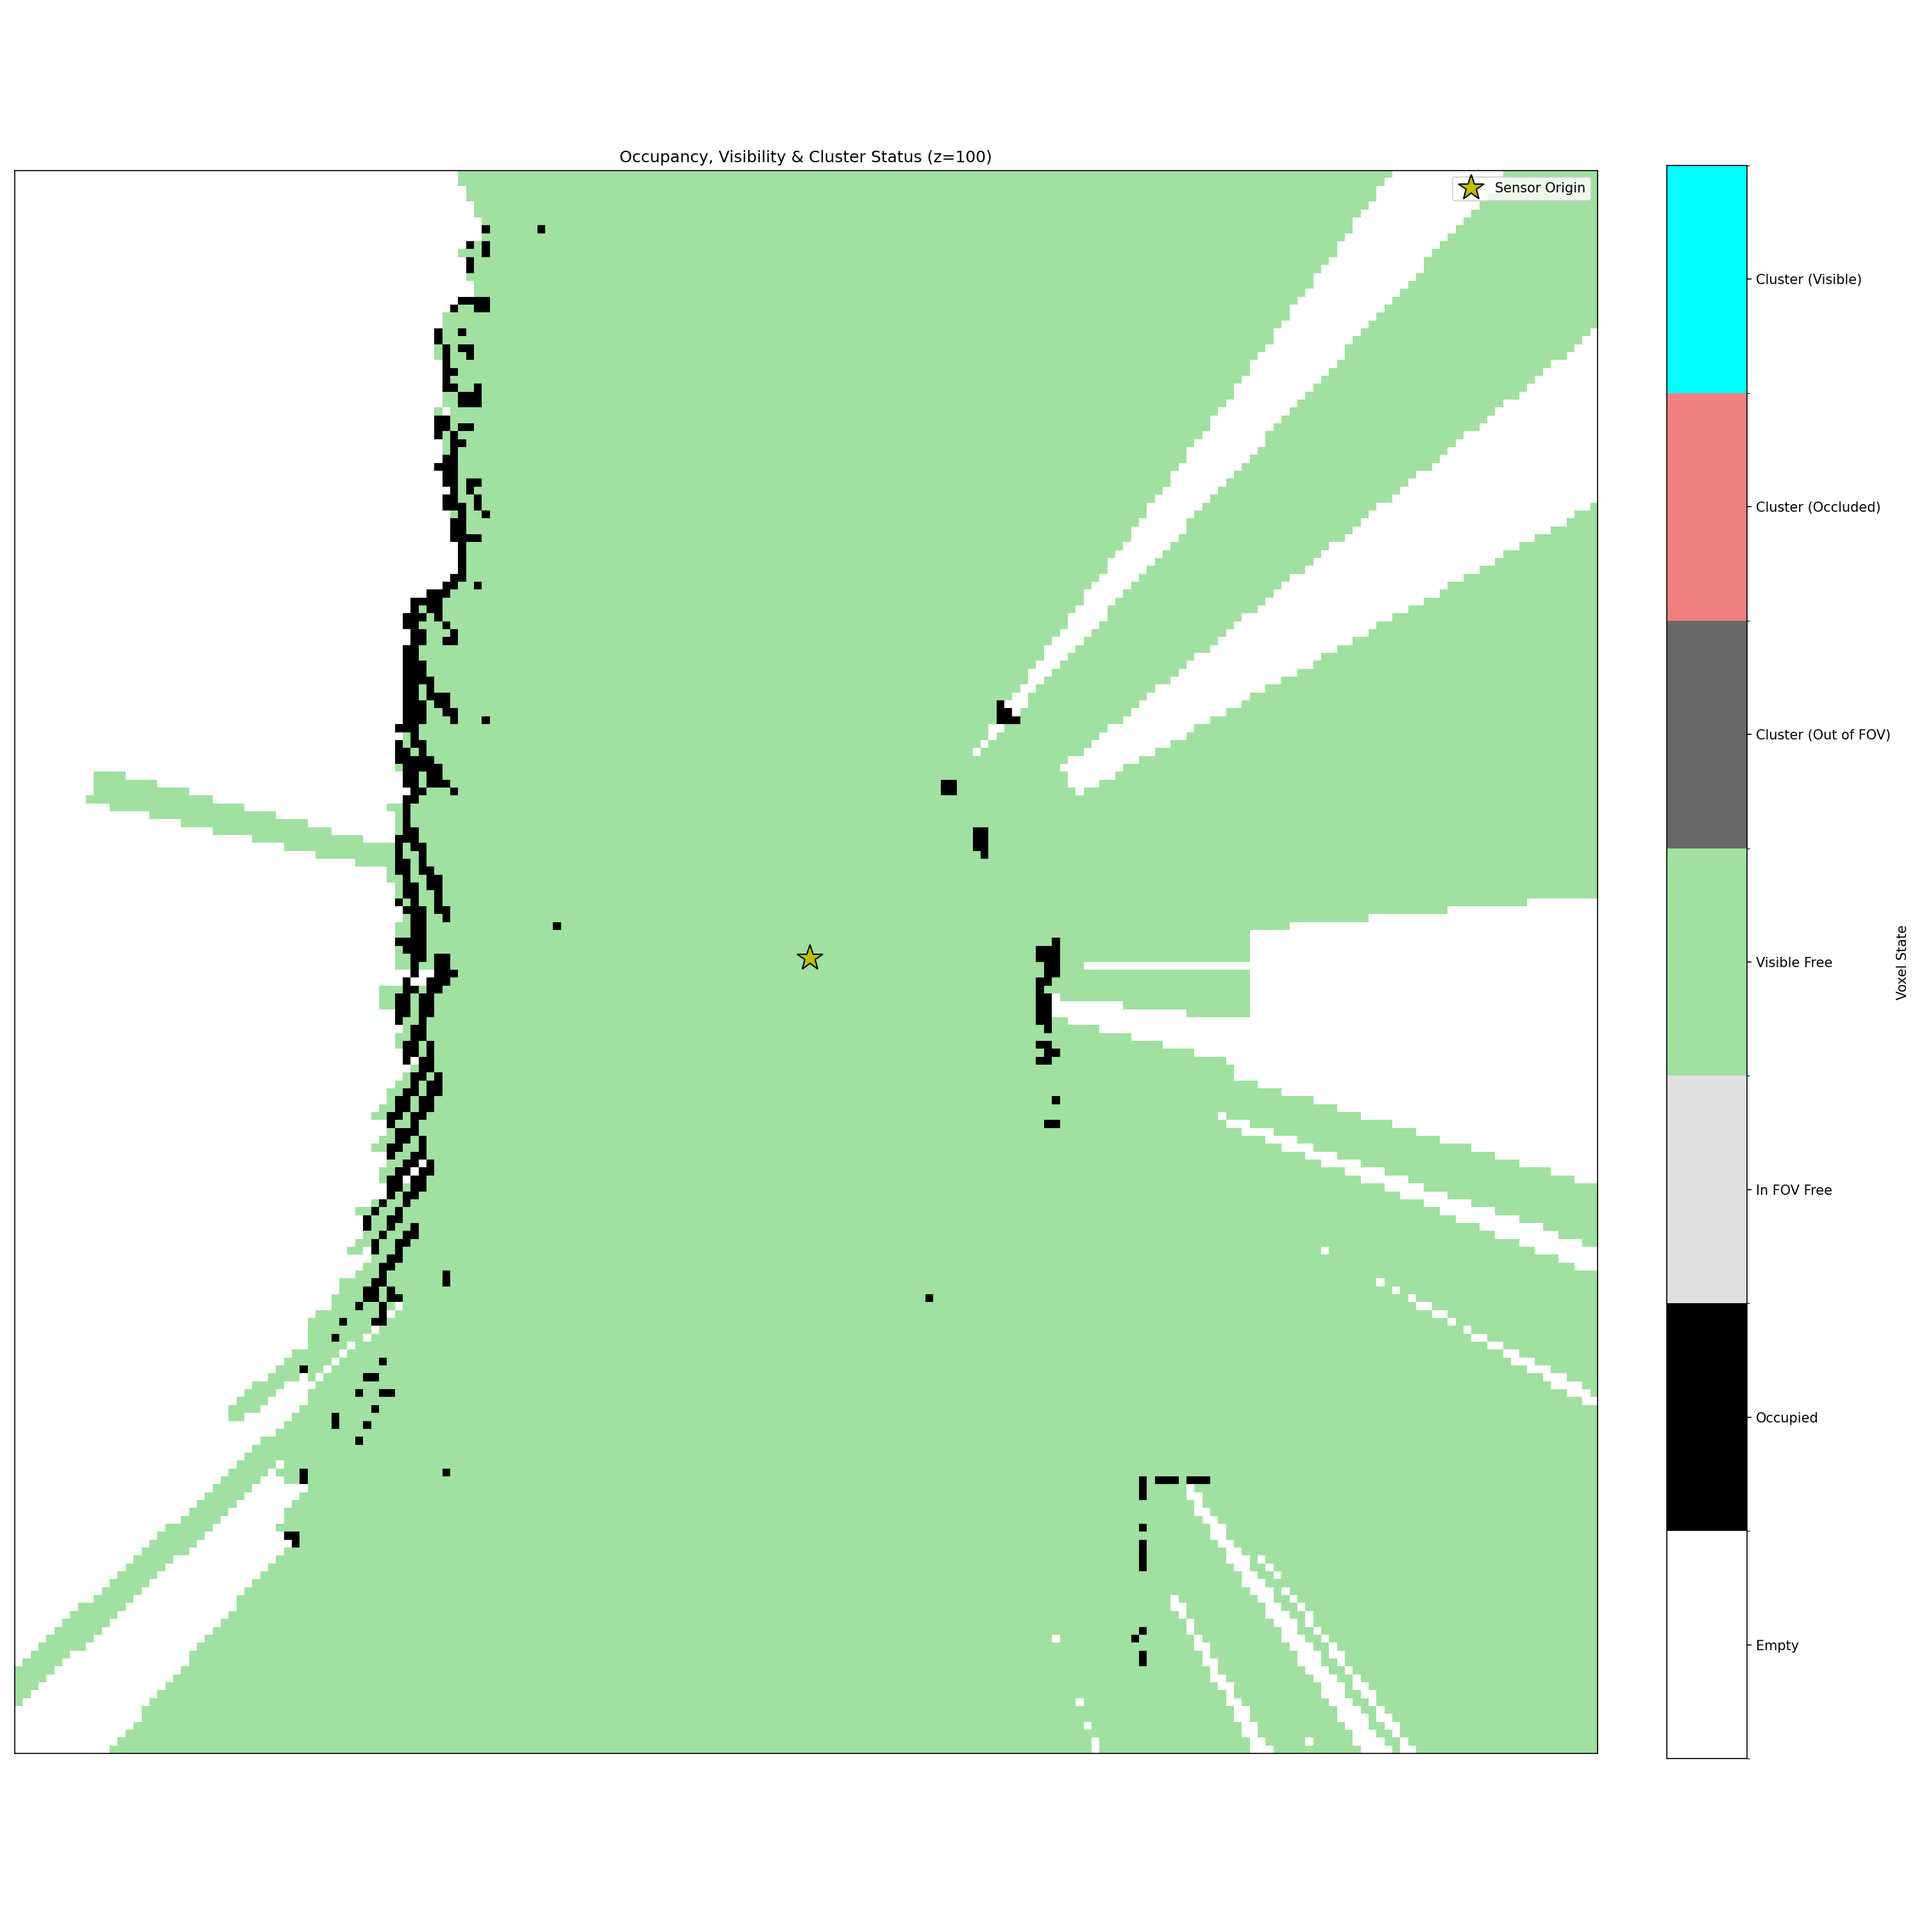
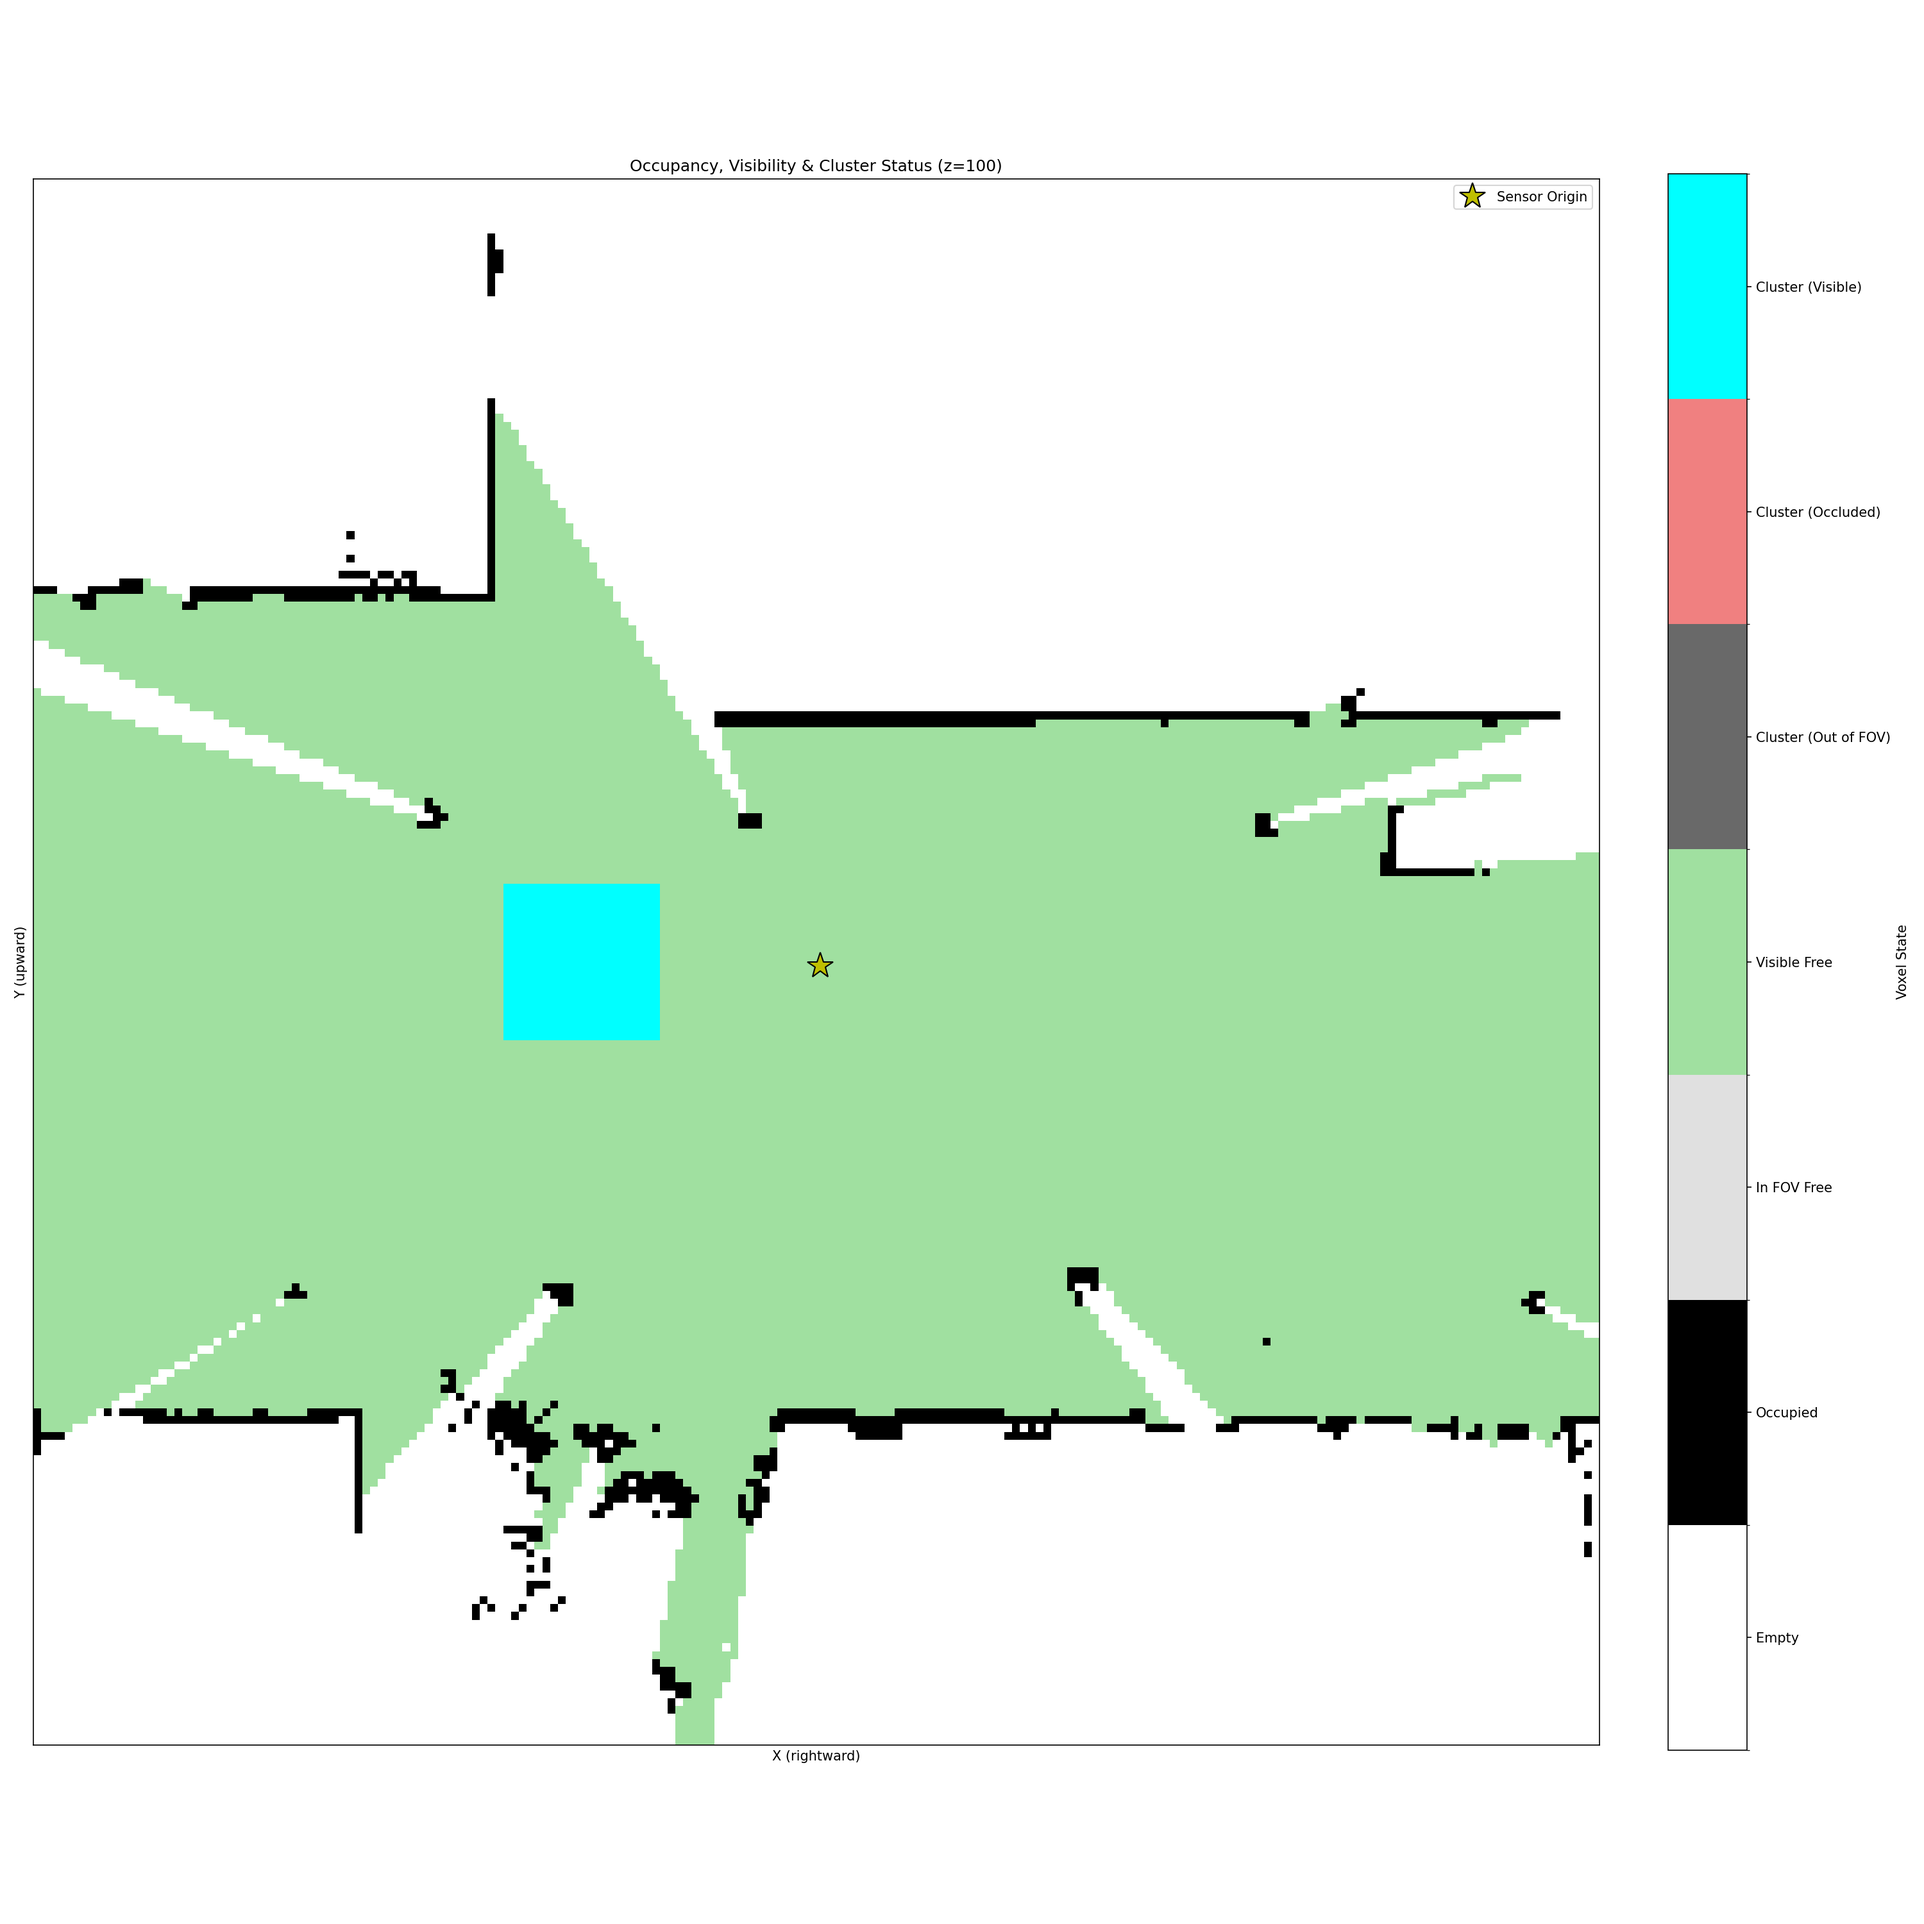
sensor in center

diff --git a/main.py b/main.py
@@ -211,7 +211,7 @@ def dilate_visibility_kernel(
 ) -> None:
     W, D, H = in_vis.shape
     vx, vy, vz = cuda.grid(3)
-    if vx >= W or vy >= D or vy >= H:
+    if vx >= W or vy >= D or vz >= H:
         return
     if in_vis[vx, vy, vz] == 0:
         return
@@ -276,6 +276,7 @@ def get_visibility_grid_batch(occ_sensor_list, dirs, max_range=100.0,
 
     for i, (occ, sensor) in enumerate(occ_sensor_list):
         stream = streams[i % len(streams)]
+        # TODO: not parallel, we would need to pass stream to all numba functions
         with stream.auto_synchronize():
             result = get_visibility_grid(occ, sensor, dirs, max_range, 
                                        cell_size, beam_config)
@@ -293,17 +294,15 @@ def pos_to_cell_idx(d: float, h: float, w: float, cell_size: float) -> tuple[int
 def make_scene_from_pcd(
         pcd_path: Path,
         grid_shape_vox: tuple[int, int, int],
+        center_cell: NDArray[np.float32],
         cell_size: float,
-        grid_origin_m: NDArray[np.float32],
 ) -> NDArray[np.uint8]:
     pc = pypcd4.PointCloud.from_path(pcd_path)
     occ = np.zeros(grid_shape_vox, dtype=np.uint8)
     points_xyz = pc.numpy()[:, :3]
-    points_xyz[:, 2] += 2  # input pcd was shifted down 2 meters. TODO: later no need
     print(f"Loaded {points_xyz.shape[0]} points.")
 
-    points_relative_to_origin_m = points_xyz - grid_origin_m
-    indices_xyz = np.floor(points_relative_to_origin_m / cell_size).astype(int)
+    indices_xyz = np.floor(points_xyz / cell_size).astype(int) + center_cell
 
     W, D, H = grid_shape_vox
     valid_mask = (
@@ -359,7 +358,7 @@ def sample_fov_dirs(
 
 def plot_3d_scene_web(
     occ: NDArray[np.uint8],
-    sensor_zyx: Position,
+    sensor: Position,
     dirs: NDArray[np.float32],
     max_range: float,
     num_rays_to_plot: int = 50,
@@ -369,14 +368,13 @@ def plot_3d_scene_web(
     # The simulation uses (z, y, x) numpy indexing.
     # Plotly uses a standard Cartesian (x, y, z) coordinate system.
     # We must consistently swap the axes when creating plotable objects.
+    sensor = np.array(sensor)
 
     plot_data = []
 
     # 1. Trace for the occupied voxels (PCD)
-    occ_indices_zyx = np.argwhere(occ == 1)
-    if occ_indices_zyx.size > 0:
-        # Swap axes from (z, y, x) to (x, y, z) for plotting
-        occ_indices_xyz = occ_indices_zyx[:, ::-1]
+    occ_indices_xyz = np.argwhere(occ == 1)
+    if occ_indices_xyz.size > 0:
         pcd_trace = go.Scatter3d(
             x=occ_indices_xyz[:, 0], y=occ_indices_xyz[:, 1], z=occ_indices_xyz[:, 2],
             mode='markers',
@@ -387,9 +385,8 @@ def plot_3d_scene_web(
 
     # 2. Trace for the sensor position
     # Swap axes from (z, y, x) to (x, y, z) for plotting
-    sensor_xyz = np.array([sensor_zyx[2], sensor_zyx[1], sensor_zyx[0]])
     sensor_trace = go.Scatter3d(
-        x=[sensor_xyz[0]], y=[sensor_xyz[1]], z=[sensor_xyz[2]],
+        x=[sensor[0]], y=[sensor[1]], z=[sensor[2]],
         mode='markers',
         marker=dict(size=8, color='yellow', symbol='diamond', line=dict(color='black', width=2)),
         name='Sensor Position'
@@ -407,8 +404,8 @@ def plot_3d_scene_web(
     # and separate the line segments with `None` values.
     ray_x, ray_y, ray_z = [], [], []
     for i in range(num_rays_to_plot):
-        start_point = sensor_xyz
-        end_point = sensor_xyz + sampled_dirs_xyz[i] * max_range
+        start_point = sensor
+        end_point = sensor + sampled_dirs_xyz[i] * max_range
         
         ray_x.extend([start_point[0], end_point[0], None])
         ray_y.extend([start_point[1], end_point[1], None])
@@ -446,13 +443,19 @@ def plot_slice(
         vis: NDArray[np.int32],
         cluster: NDArray[np.uint8],
         z_idx: int | float,
-        sensor_zyx: NDArray[np.float32],
+        sensor_xyz: NDArray[np.float32],
         out_path: str = "example_result.png",
 ) -> None:
     """Plots a 2D slice of the combined occupancy, visibility, and cluster grids."""
     occ_slice = occ[:, :, int(z_idx)]
     vis_slice = vis[:, :, int(z_idx)]
     cluster_slice = cluster[:, :, int(z_idx)]
+    
+    # Transform slices for correct orientation: +X right, +Y up
+    # Transpose to swap X and Y, then flip vertically to make +Y point up
+    occ_slice = np.flipud(occ_slice.T)
+    vis_slice = np.flipud(vis_slice.T)
+    cluster_slice = np.flipud(cluster_slice.T)
 
     # 0: Empty/Unseen (white)
     # 1: Occupied (black)
@@ -486,10 +489,16 @@ def plot_slice(
     fig, ax = plt.subplots(figsize=(20, 20))
     img = ax.imshow(merged_grid, cmap=cmap, norm=norm, origin="lower")
 
-    ax.plot(sensor_zyx[0], sensor_zyx[1], 'y*', markersize=20, markeredgecolor='black', label='Sensor Origin')
+    # Adjust sensor coordinates for new orientation
+    # After transpose and flip: Y becomes horizontal axis, X becomes vertical (flipped)
+    sensor_x_plot = sensor_xyz[1]  # Y coordinate becomes horizontal position
+    sensor_y_plot = merged_grid.shape[0] - 1 - sensor_xyz[0]  # X coordinate becomes vertical (flipped)
+    ax.plot(sensor_x_plot, sensor_y_plot, 'y*', markersize=20, markeredgecolor='black', label='Sensor Origin')
     ax.legend()
     
     ax.set_title(f"Occupancy, Visibility & Cluster Status (z={int(z_idx)})")
+    ax.set_xlabel('X (rightward)')
+    ax.set_ylabel('Y (upward)')
     
     cbar = fig.colorbar(img, ax=ax, fraction=0.046, pad=0.04, ticks=np.arange(7))
     cbar.ax.set_yticklabels(['Empty', 'Occupied', 'In FOV Free', 'Visible Free', 'Cluster (Out of FOV)', 'Cluster (Occluded)', 'Cluster (Visible)'])
@@ -588,12 +597,8 @@ if __name__ == "__main__":
         help="Grid dimensions in meters as 'Width,Depth,Height' (X,Y,Z)."
     )
     parser.add_argument(
-        "--sensor_pos_m", type=str, default="20,20,20",
+        "--sensor_pos_m", type=str, default="0,0,0",
         help="Sensor position in world coordinates (X,Y,Z) in meters."
-    )
-    parser.add_argument(
-        "--grid_origin_m", type=str, default="-20,-20,-20",
-        help="World coordinate (x,y,z) in meters that maps to grid voxel (0,0,0). Used only with --pcd_file."
     )
     parser.add_argument(
         "--cell_size", type=float, default=0.2,
@@ -610,16 +615,17 @@ if __name__ == "__main__":
     grid_dims_m = tuple(map(float, args.grid_dims_m.split(',')))
     grid_shape_vox = pos_to_cell_idx(grid_dims_m[0], grid_dims_m[1], grid_dims_m[2], args.cell_size)
 
-    sensor = np.array(list(map(float, args.sensor_pos_m.split(',')))) / args.cell_size
+    center_cell = np.array(grid_shape_vox) // 2
+    sensor = (np.array(list(map(float, args.sensor_pos_m.split(',')))) / args.cell_size).astype(int)
+    sensor += center_cell
+    print(f'{sensor=}')
 
-    grid_origin_m = np.array(list(map(float, args.grid_origin_m.split(','))))
-    # we expect that points are in global or vehicle coord system
-    # probably world and we use grid_origin for centering
+    # currently we expect sensor at 0,0
     occ = make_scene_from_pcd(
         pcd_path=args.pcd_file,
         grid_shape_vox=grid_shape_vox,
+        center_cell=center_cell,
         cell_size=args.cell_size,
-        grid_origin_m=grid_origin_m,
     )
 
     start_ray_time = time.time()
@@ -643,12 +649,24 @@ if __name__ == "__main__":
     )
     
     cluster = np.zeros_like(occ, dtype=np.uint8)
+    x_center, y_center, z_center = 70, 100, 100
+    cluster_size = 20
+    half_size = cluster_size // 2
+    
+    x0 = max(0, x_center - half_size)
+    x1 = min(cluster.shape[0], x_center + half_size)
+    y0 = max(0, y_center - half_size)
+    y1 = min(cluster.shape[1], y_center + half_size)
+    z0 = max(0, z_center)
+    z1 = min(cluster.shape[2], z_center + 1)
+    
+    cluster[x0:x1, y0:y1, z0:z1] = 1
     # if not args.pcd_file:
     #     # This cluster definition is tuned for the default procedural scene
     #     z0, z1 = int(10 / args.cell_size), int(36 / args.cell_size)
     #     y0, y1 = int(10 / args.cell_size), int(30 / args.cell_size)
     #     x0, x1 = int(10 / args.cell_size), int(56 / args.cell_size)
-    #     cluster[z0:z1, y0:y1, x0:x1] = 1
+    #     cluster[x0:x1, y0:y1, z0:z1] = 1
 
     warmup_result = get_visibility_grid(occ, sensor, dirs[:1], beam_config=beam_config)
 
@@ -672,10 +690,9 @@ if __name__ == "__main__":
 
     start_plot_time = time.time()
     print("- Plotting slices (view slice*.png for results)...")
-    for z_idx in range(100, 101):
-    # for z_idx in range(96, 108):
-        if 0 <= z_idx < occ.shape[0]:
-            plot_slice(occ, vis_grid, cluster, z_idx=z_idx, sensor_zyx=sensor, out_path=f"slice_{z_idx}.png")
+    for z_idx in [95, 100]:
+        if 0 <= z_idx < occ.shape[2]:
+            plot_slice(occ, vis_grid, cluster, z_idx=z_idx, sensor_xyz=sensor, out_path=f"slice_{z_idx}.png")
     plot_time = time.time() - start_plot_time
     print(f"- Plotting Time:           {plot_time:.4f}s")
 
@@ -684,7 +701,7 @@ if __name__ == "__main__":
     if args.plot_3d_web:
         plot_3d_scene_web(
             occ=occ,
-            sensor_zyx=sensor,
+            sensor=sensor,
             dirs=dirs,
             max_range=40.0, # Use the same max_range as Demo 1
         )
